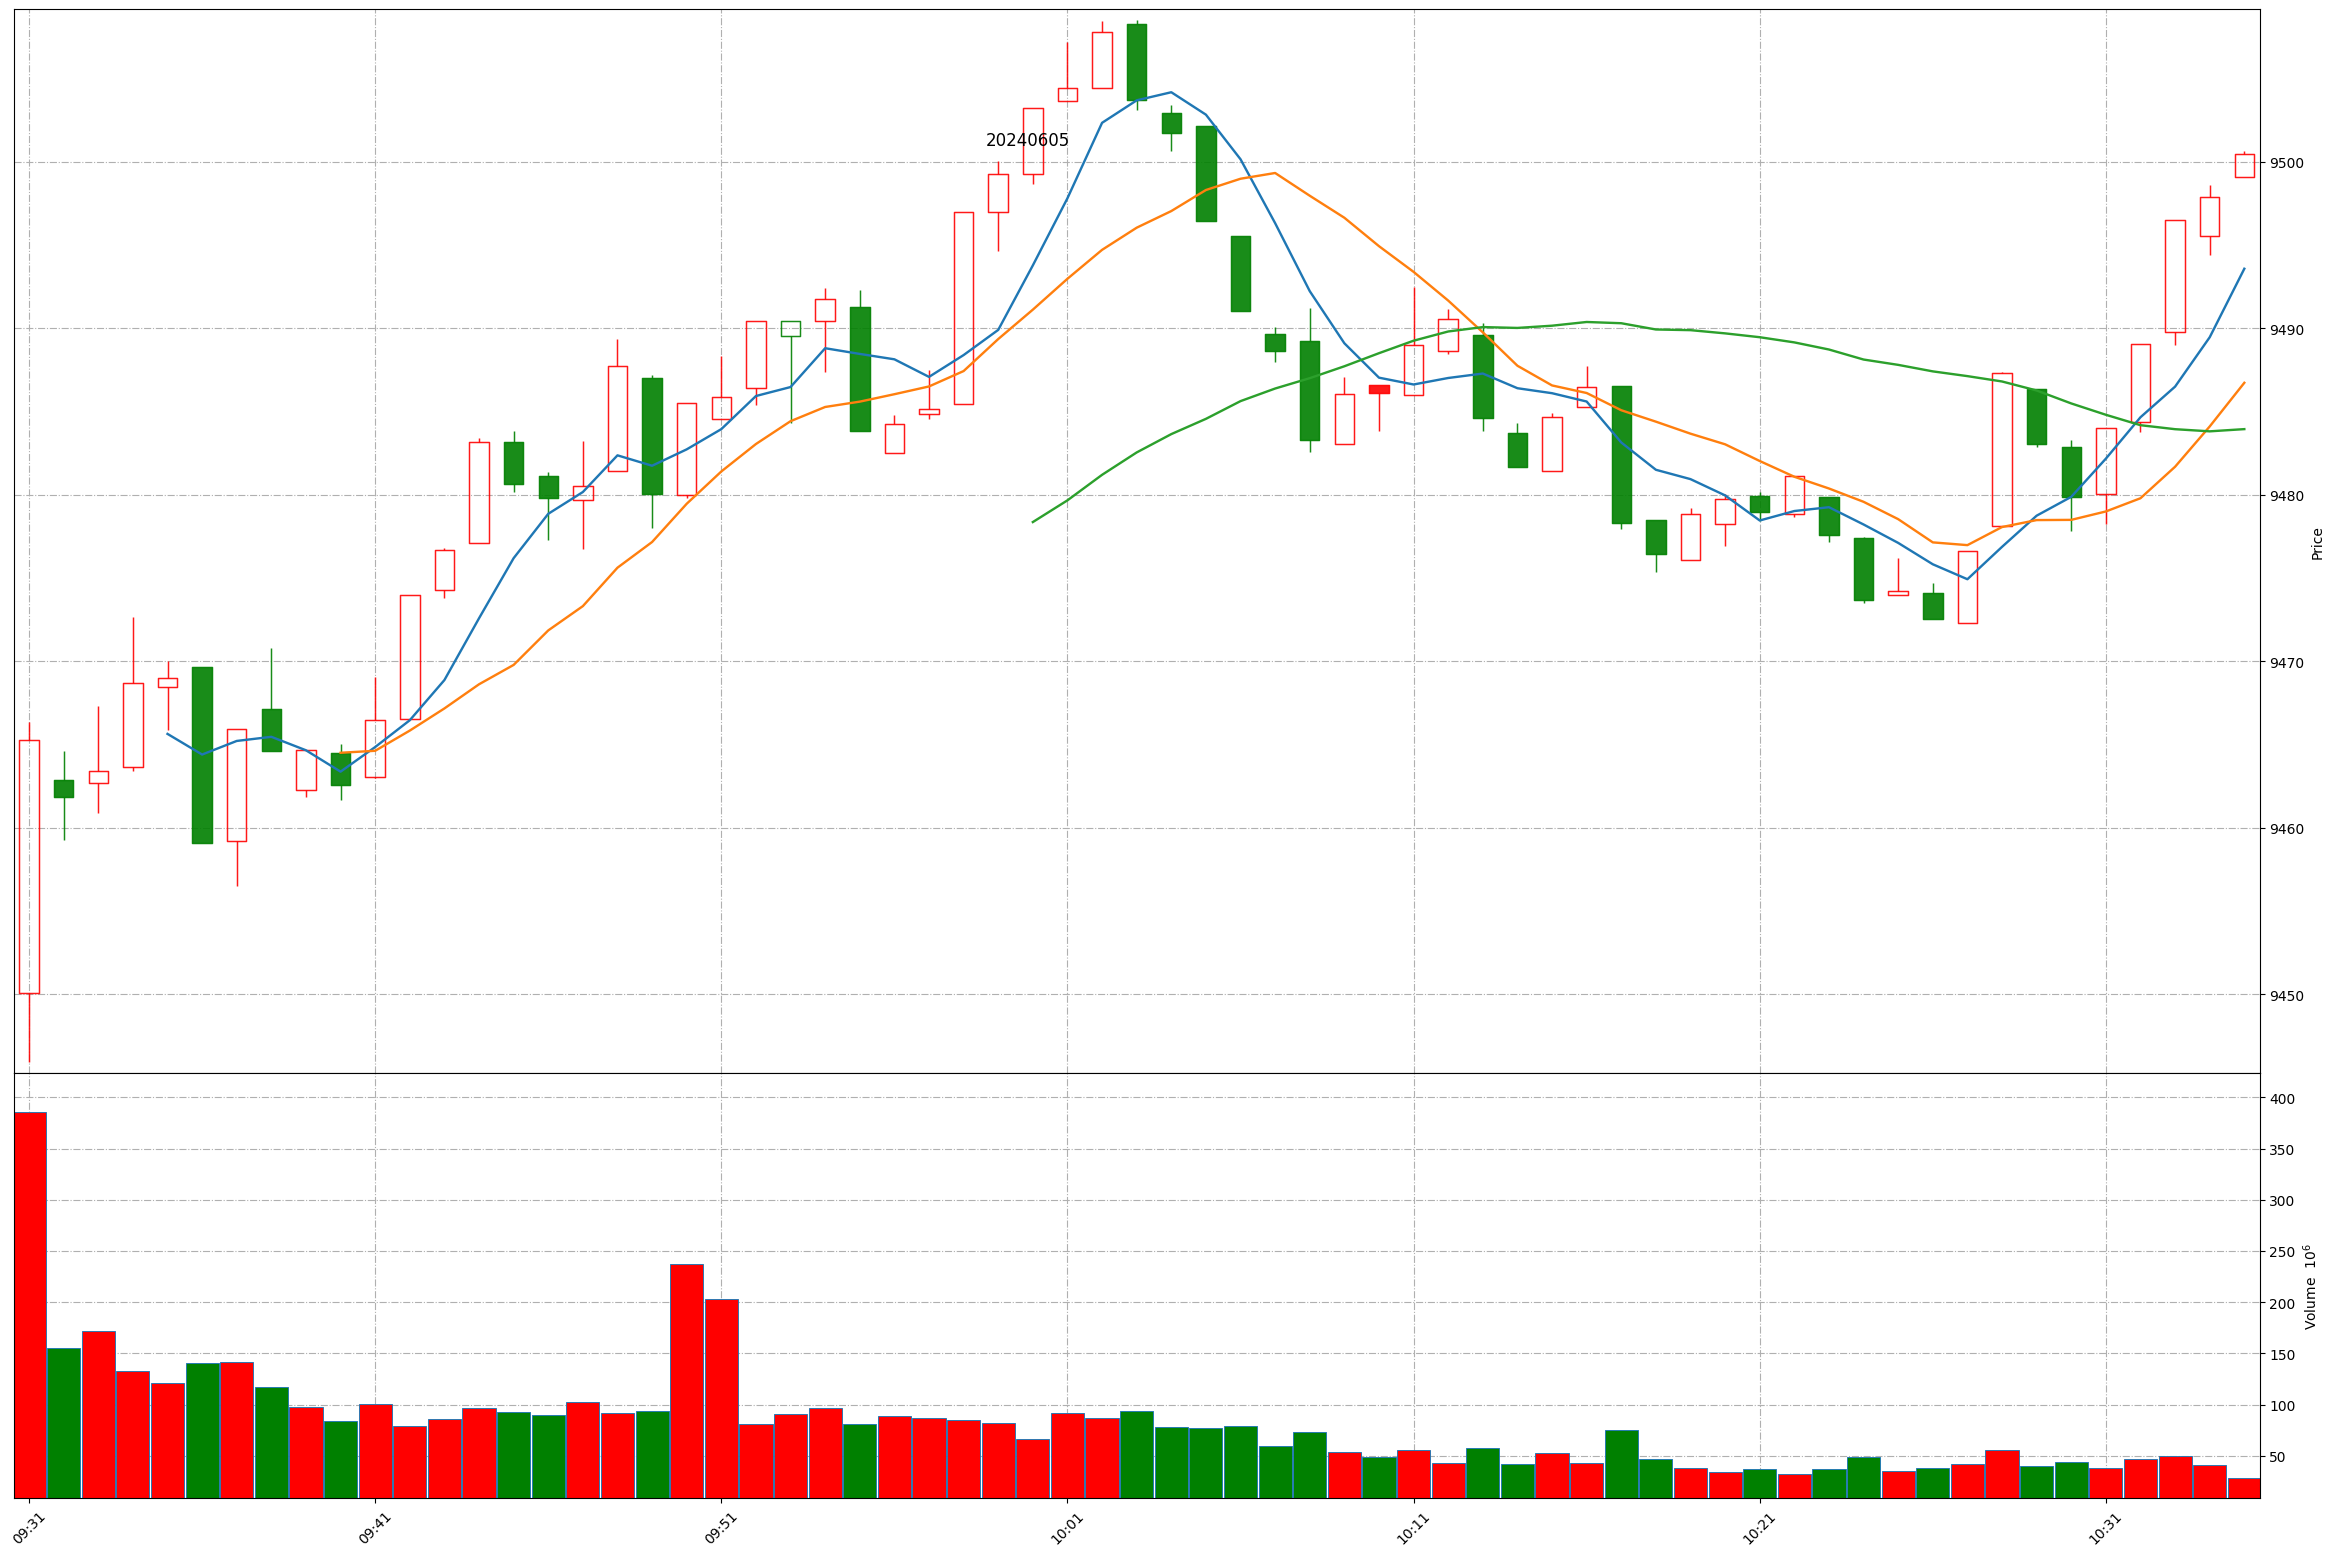
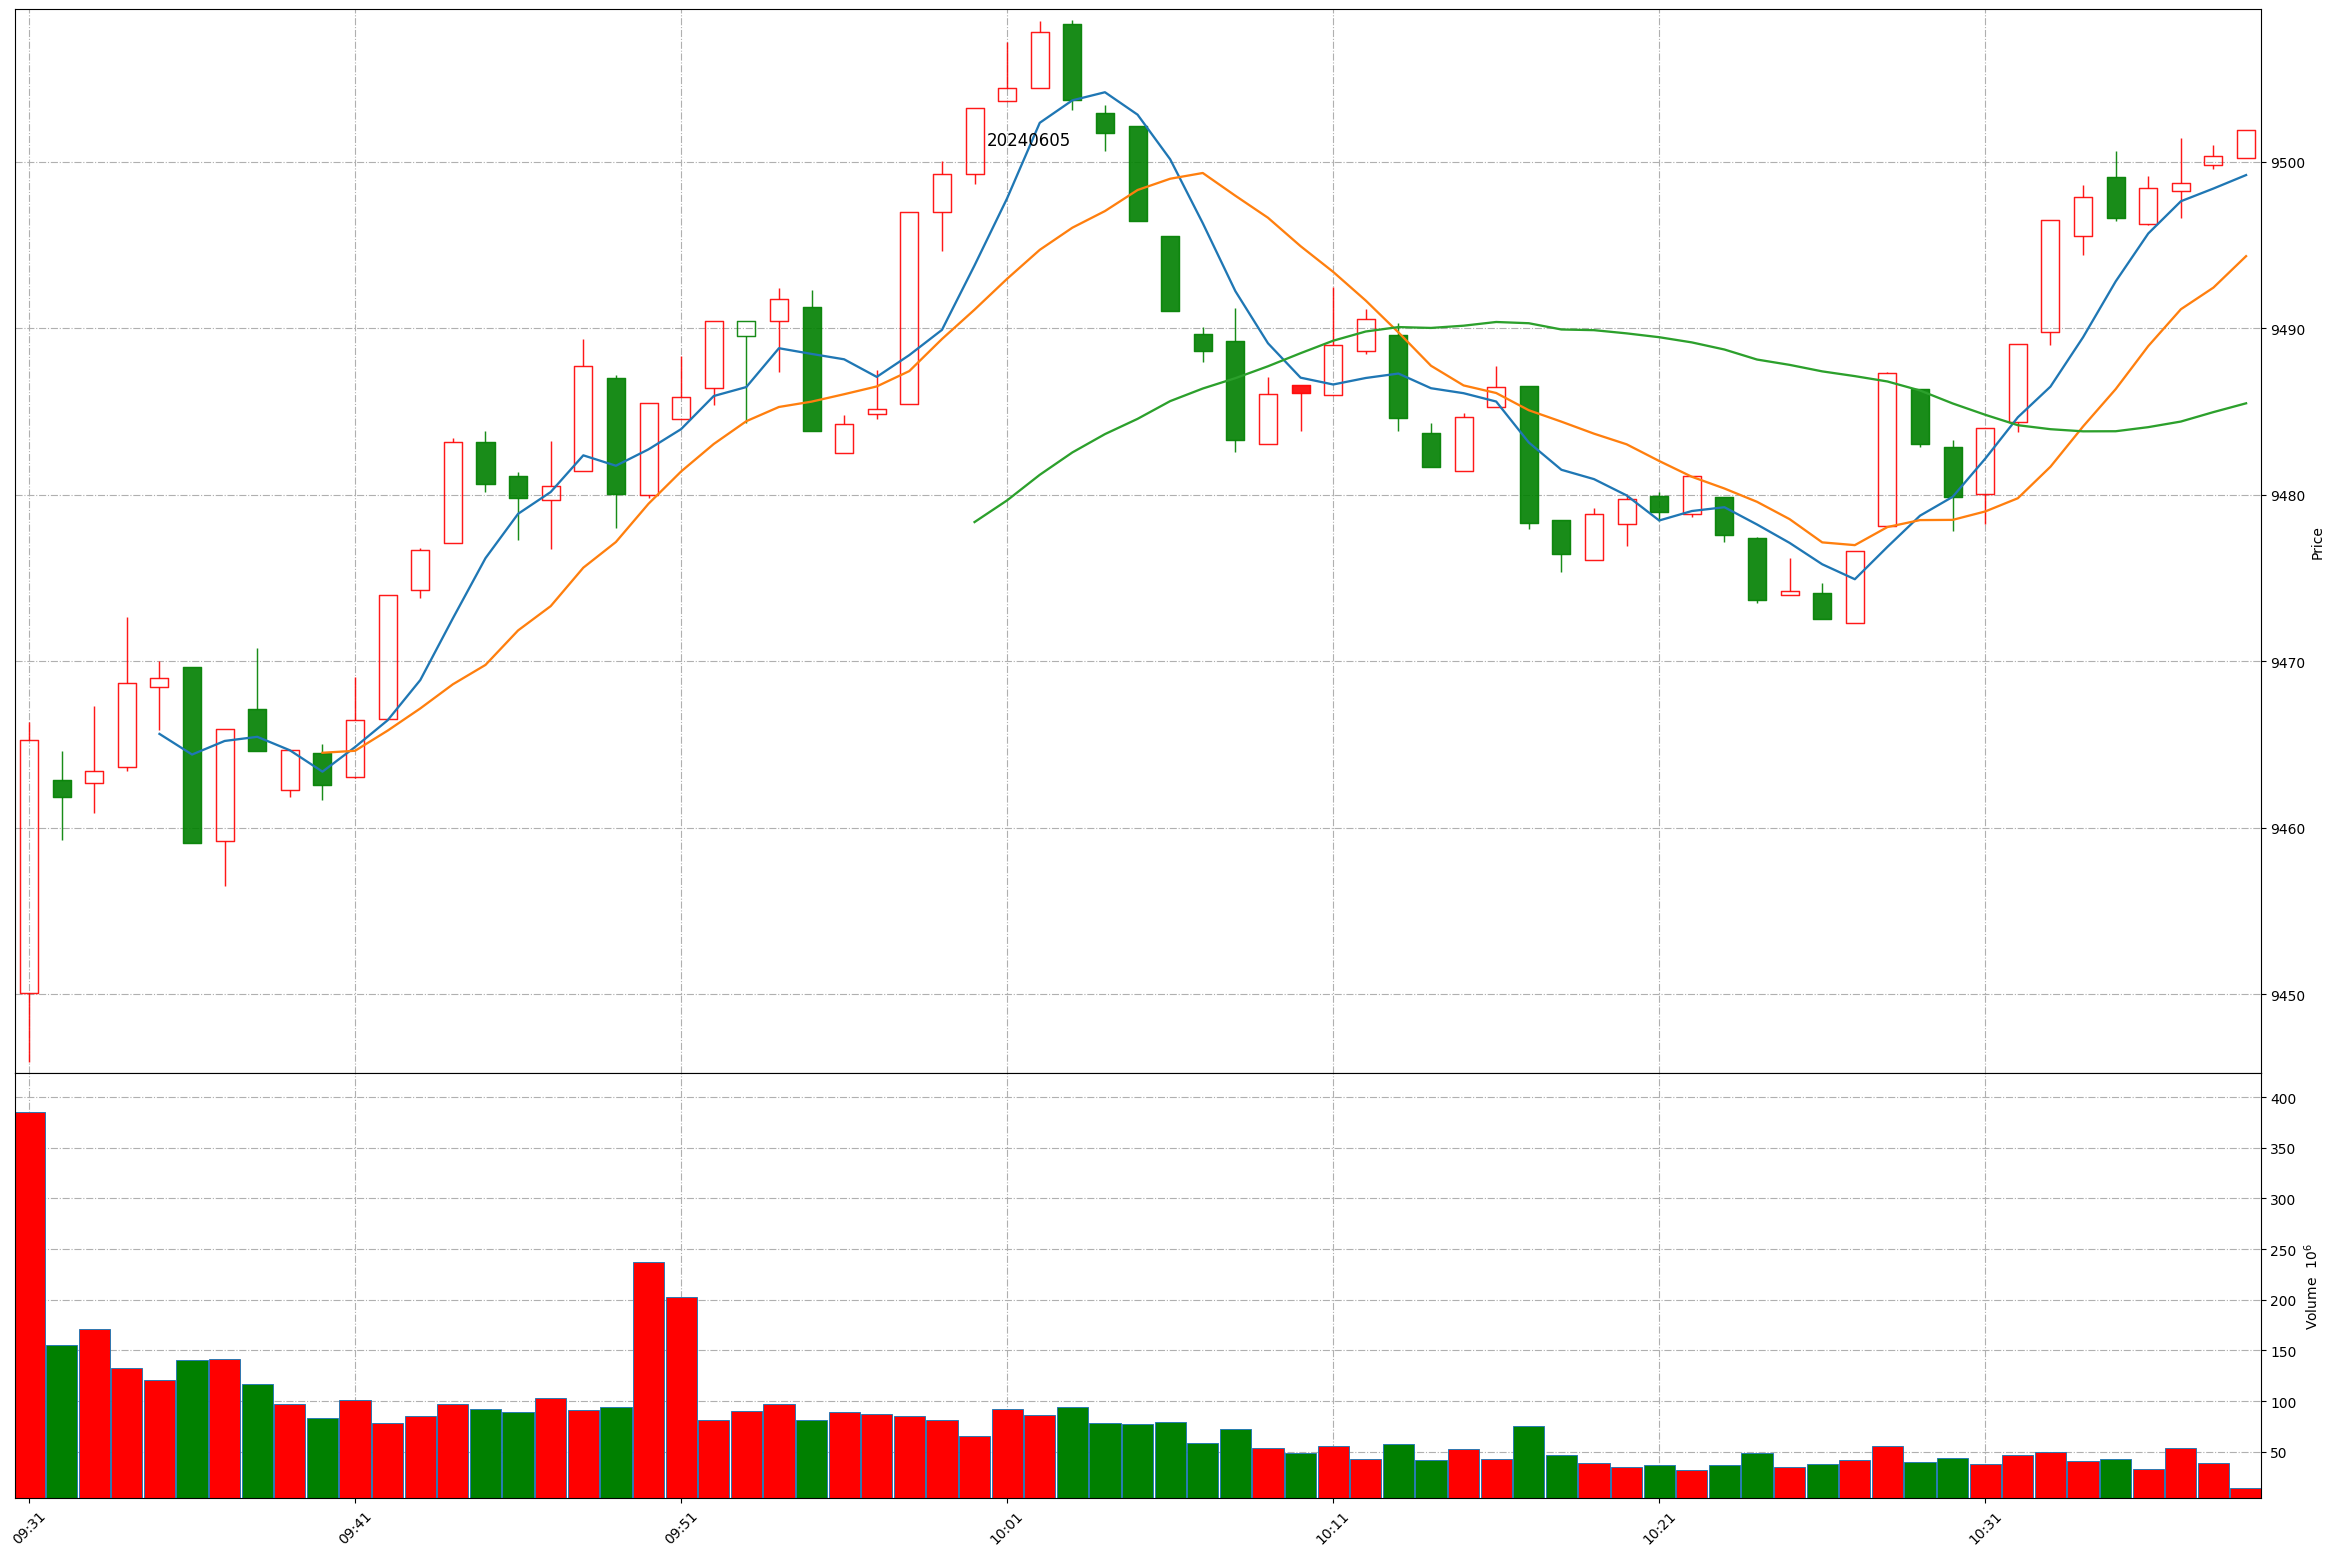
Github action update at 2024-06-05 10:38:24.

diff --git a/README.md b/README.md
@@ -1,11 +1,11 @@
 
 # Daily-A-share-market-quotes 每日 A 股指数（5min 更新）- 20240605
 
-### 上证指数 20240605 10:35
+### 上证指数 20240605 10:38
 ![](./fig/2024/6/20240605-sh000001.png)
 
-### 深证成指 20240605 10:35
+### 深证成指 20240605 10:38
 ![](./fig/2024/6/20240605-sz399001.png)
 
-### 北证50 20240605 10:35
+### 北证50 20240605 10:38
 ![](./fig/2024/6/20240605-bj899050.png)
